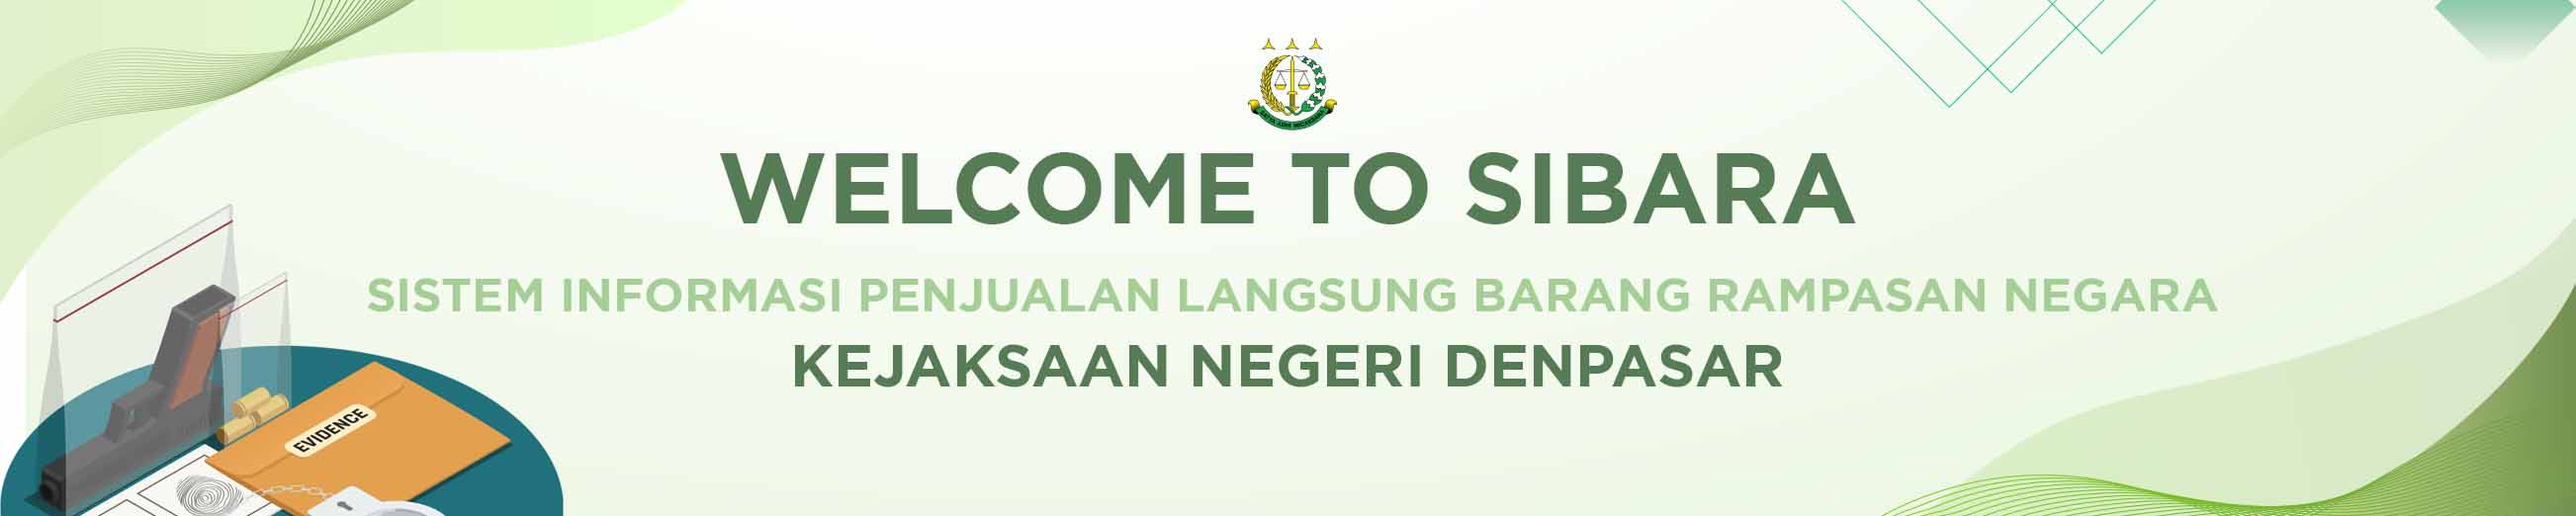
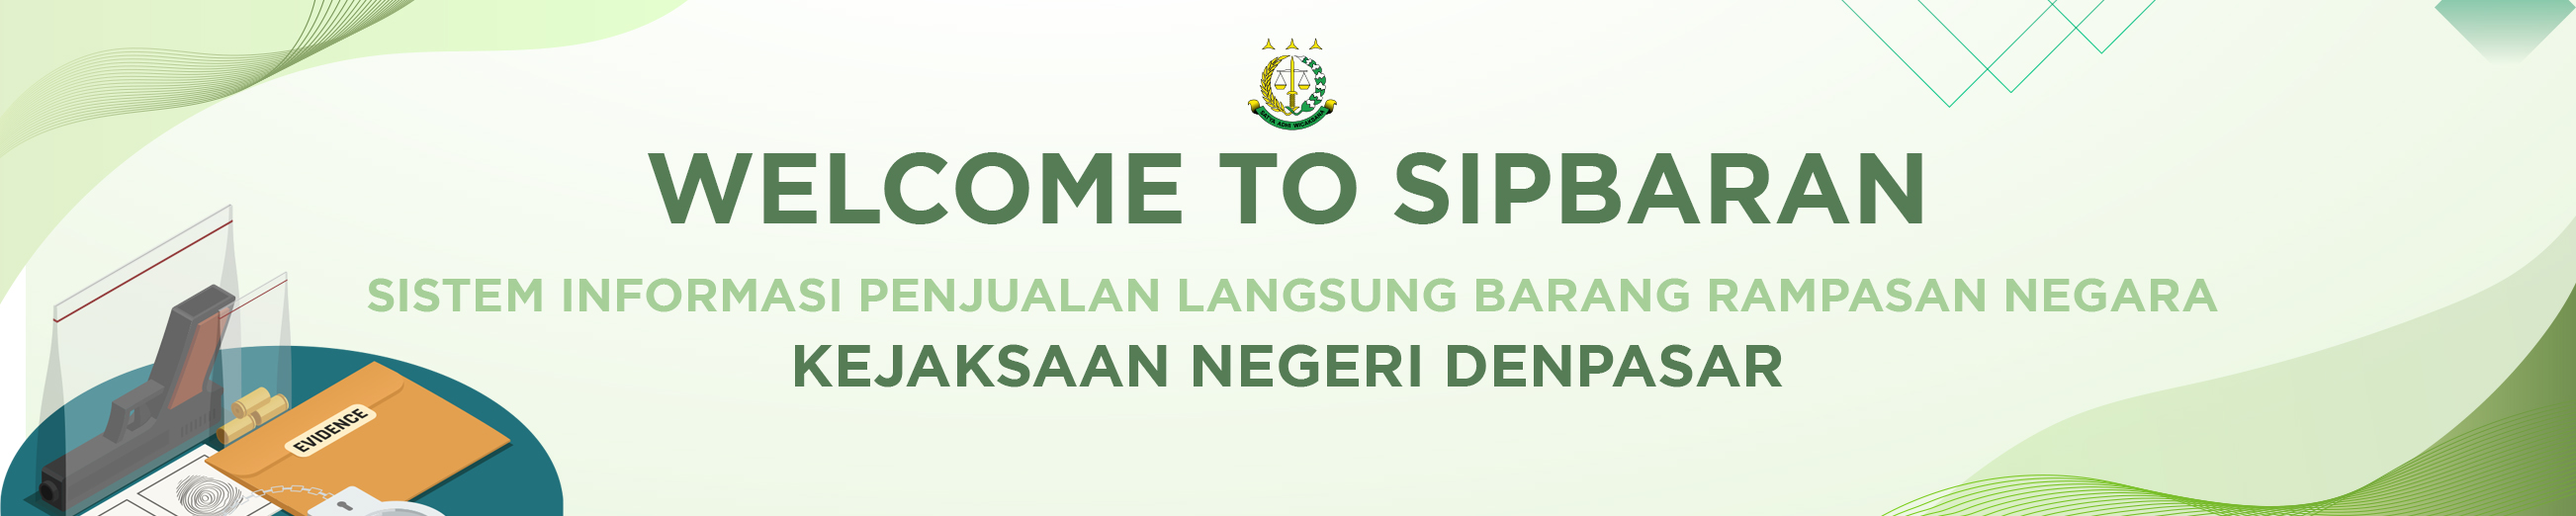
bug fix title and save photos

diff --git a/app/Http/Controllers/AdminController.php b/app/Http/Controllers/AdminController.php
@@ -7,7 +7,7 @@ use Illuminate\Support\Facades\Storage;
 use Intervention\Image\Facades\Image;
 use Illuminate\Support\Facades\Session;
 use App\Models\User;
-use App\Models\pegawai;
+use App\Models\Pegawai;
 
 class AdminController extends Controller
 {
@@ -40,10 +40,20 @@ class AdminController extends Controller
         // Simpan foto
         if ($request->hasFile('foto_pegawai')) {
             $image = $request->file('foto_pegawai');
-            $path = $image->storeAs('public/photos', time() . '.' . $image->getClientOriginalExtension());
+            $fileName = time() . '.' . $image->getClientOriginalExtension();
+
+            // Path untuk menyimpan gambar di dalam folder storage
+            $storagePath = $image->storeAs('public/photos/', $fileName);
+
+            // Path untuk menyimpan gambar di dalam folder public
+            $publicPath = public_path('storage/photos/' . $fileName);
+
             // Resize gambar sebelum disimpan
-            Image::make($image)->fit(150, 150)->save(storage_path('app/' . $path));
-            $url = Storage::url($path);
+            $resizedImage = Image::make($image)->fit(150, 150);
+            $resizedImage->save($publicPath); // Simpan gambar di folder public
+
+            // URL gambar yang akan disimpan di database
+            $url = asset('storage/photos/' . $fileName);
         }
 
         // Simpan data ke tabel 'pegawai' dengan user_id yang terkait
@@ -94,10 +104,20 @@ class AdminController extends Controller
 
         if ($request->hasFile('foto_pegawai')) {
             $image = $request->file('foto_pegawai');
-            $path = $image->storeAs('public/photos', time() . '.' . $image->getClientOriginalExtension());
+            $fileName = time() . '.' . $image->getClientOriginalExtension();
+
+            // Path untuk menyimpan gambar di dalam folder storage
+            $storagePath = $image->storeAs('public/photos/pegawai/', $fileName);
+
+            // Path untuk menyimpan gambar di dalam folder public
+            $publicPath = public_path('storage/photos/' . $fileName);
+
             // Resize gambar sebelum disimpan
-            Image::make($image)->fit(150, 150)->save(storage_path('app/' . $path));
-            $url = Storage::url($path);
+            $resizedImage = Image::make($image)->fit(150, 150);
+            $resizedImage->save($publicPath); // Simpan gambar di folder public
+
+            // URL gambar yang akan disimpan di database
+            $url = asset('storage/photos/' . $fileName);
             $pegawai->foto_pegawai = $url;
         }
 

diff --git a/app/Http/Controllers/PegawaiController.php b/app/Http/Controllers/PegawaiController.php
@@ -99,11 +99,21 @@ class PegawaiController extends Controller
 
         if ($request->hasFile('foto_pegawai')) {
             $image = $request->file('foto_pegawai');
-            $path = $image->storeAs('public/photos', time() . '.' . $image->getClientOriginalExtension());
+            $fileName = time() . '.' . $image->getClientOriginalExtension();
+
+            // Path untuk menyimpan gambar di dalam folder storage
+            $storagePath = $image->storeAs('public/photos/pegawai/', $fileName);
+
+            // Path untuk menyimpan gambar di dalam folder public
+            $publicPath = public_path('storage/photos/' . $fileName);
+
             // Resize gambar sebelum disimpan
-            Image::make($image)->fit(150, 150)->save(storage_path('app/' . $path));
-            $url = Storage::url($path);
-            $pegawai->foto_pegawai = $url;  
+            $resizedImage = Image::make($image)->fit(150, 150);
+            $resizedImage->save($publicPath); // Simpan gambar di folder public
+
+            // URL gambar yang akan disimpan di database
+            $url = asset('storage/photos/' . $fileName);
+            $pegawai->foto_pegawai = $url; 
 
         }
 

diff --git a/app/Http/Controllers/DashboardController.php b/app/Http/Controllers/DashboardController.php
@@ -26,8 +26,9 @@ class DashboardController extends Controller
         }
         
         $jumlah_harga_bid = null;
+        $terjual = null;
         
-        if ($jadwal)
+        if ($jadwal) {
             $jumlah_harga_bid = Transaksi::join('penawarans', 'transaksis.id_penawaran', '=', 'penawarans.id')
                                         ->where('transaksis.status', 'verified')
                                         ->where('penawarans.id_jadwal', $jadwal->id)
@@ -37,6 +38,7 @@ class DashboardController extends Controller
                                 ->where('transaksis.status', 'verified')
                                 ->where('penawarans.id_jadwal', $jadwal->id)
                                 ->count();
+        }
             
         return view('dashboard.index',[
             'title' => 'Dashboard',

diff --git a/resources/views/dashboard/layouts/main.blade.php b/resources/views/dashboard/layouts/main.blade.php
@@ -3,7 +3,7 @@
 <head>
     <meta charset="utf-8">
     <meta http-equiv="X-UA-Compatible" content="IE=edge">
-    <title>SIBARA | {{ $title }}</title>
+    <title>SIPBARAN | {{ $title }}</title>
     <meta name="viewport" content="width=device-width, initial-scale=1">
 
     <link rel="stylesheet" href="https://cdn.jsdelivr.net/npm/bootstrap@4.1.3/dist/css/bootstrap.min.css">
@@ -66,7 +66,7 @@
             <div class="top-left">
                 <div class="navbar-header">
                   <a class="navbar-brand" href="/dashboard">
-                    <strong class=" text-center">SIBARA</strong>
+                    <strong class=" text-center">SIPBARAN</strong>
                   </a>
                   <a id="menuToggle" class="menutoggle"><i class="fa fa-bars"></i></a>
                 </div>
